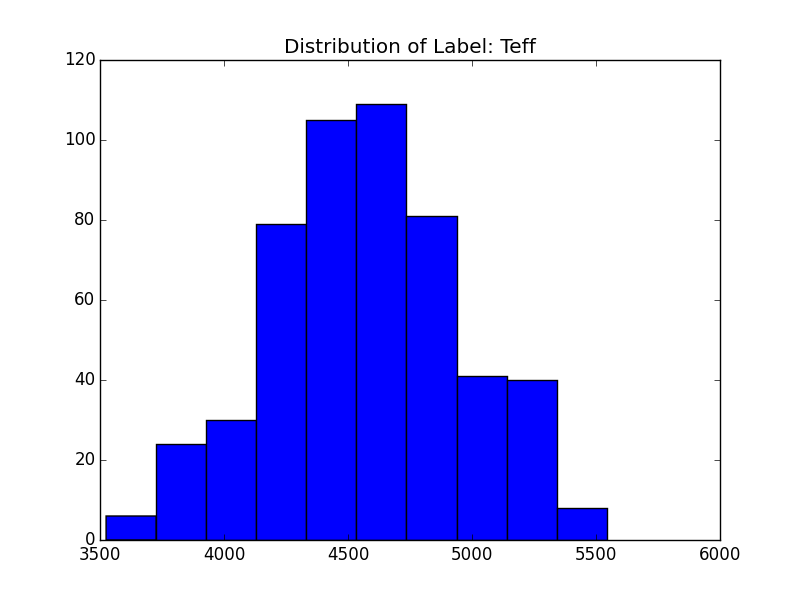
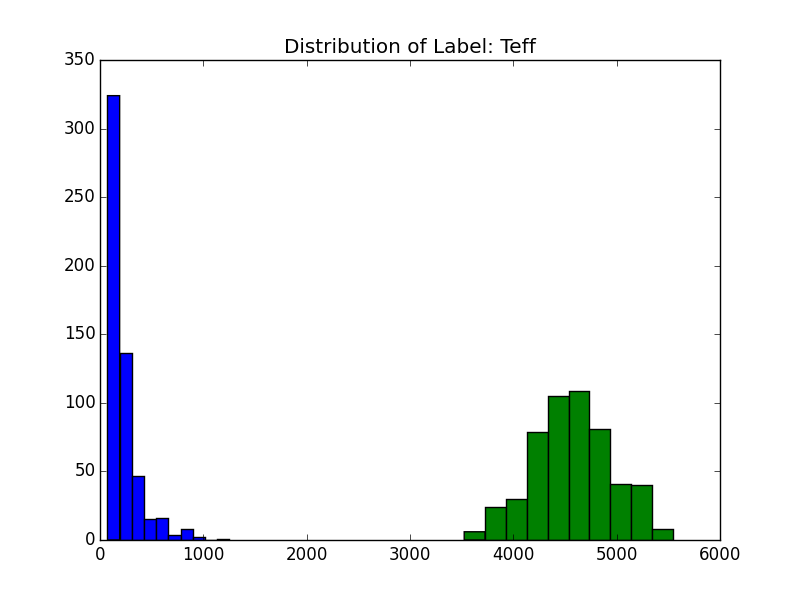
training set diagnostics

Changed region(s): [[0.0625, 0.15, 0.8438, 0.93], [0.0625, 0.09, 0.125, 0.12]]

diff --git a/Code/Version1.0/dataset.py b/Code/Version1.0/dataset.py
@@ -35,12 +35,14 @@ class Dataset(object):
 
     """
 
-    def __init__(self, IDs, spectra, label_names, label_values=None):
+    def __init__(self, IDs, SNRs, spectra, label_names, label_values=None):
         self.IDs = IDs
+        self.SNRs = SNRs
         self.spectra = spectra 
         self.label_names = label_names
         self.label_values = label_values
         if label_values is not None:
+            self.plot_SNRs()
             self.plot_labelspace()
   
     def set_IDs(self, IDs):
@@ -55,11 +57,20 @@ class Dataset(object):
     def set_label_values(self, label_values):
         self.label_values = label_values
 
+    def plot_SNRs(self):
+        plt.hist(self.SNRs)
+        plt.title("Distribution of SNR in the Training Set")
+        figname = "trainingset_SNRdist.png"
+        plt.savefig(figname)
+        print "Diagnostic for SNR of training set"
+        print "Saved fig %s" %figname
+
     def plot_labelspace(self):
         for i in range(0, len(self.label_names)):
             name = self.label_names[i]
             vals = self.label_values[:,i]
             plt.hist(vals)
+            # Note: label names cannot have slashes 
             plt.title("Distribution of Label: %s" %name)
             figname = "labeldist_%s.png" %name
             plt.savefig(figname)

diff --git a/Code/Version1.0/test.py b/Code/Version1.0/test.py
@@ -20,7 +20,7 @@ filenames1 = [] # if I just replace the element, I lose the '.fits'
 for i in range(0, len(IDs)): # incorporate file location info
     filename = '/home/annaho/AnnaCannon/Data/APOGEE_Data' + IDs[i][1:]
     filenames1.append(filename)
-spectra = get_spectra(filenames1)
+spectra, SNRs = get_spectra(filenames1)
 
 # Retrieve all training labels
 readin = "traininglabels.txt"
@@ -48,9 +48,8 @@ label_values = label_values[bad]
 # Normalize the spectra
 normalized_spectra, continua = continuum_normalize(spectra)
 
-# Initialize the training set
-# - 
-training_set = Dataset(IDs=IDs, spectra=normalized_spectra, label_names=label_names, label_values=label_values)
+# Initialize the training set 
+training_set = Dataset(IDs=IDs, SNRs=SNRs, spectra=normalized_spectra, label_names=label_names, label_values=label_values)
 
 # CONSTRUCT TEST SET
 

diff --git a/Code/Version1.0/aspcap.py b/Code/Version1.0/aspcap.py
@@ -33,8 +33,10 @@ def get_spectra(files):
         if jj == 0: 
             nstars = len(files) 
             npixels = len(fluxes)
+            SNRs = np.zeros(nstars)
             spectra = np.zeros((nstars, npixels, 3))
         flux_errs = np.array((file_in[2].data))
+        SNRs[jj] = float(file_in[0].header['SNR'])
         start_wl = file_in[1].header['CRVAL1']
         diff_wl = file_in[1].header['CDELT1']
         val = diff_wl*(npixels) + start_wl
@@ -45,7 +47,7 @@ def get_spectra(files):
         spectra[jj, :, 1] = fluxes
         spectra[jj, :, 2] = flux_errs
     print "Loaded %s stellar spectra" %len(files)
-    return spectra
+    return spectra, SNRs
 
 def continuum_normalize(spectra):
     """Continuum-normalizes the spectra.
